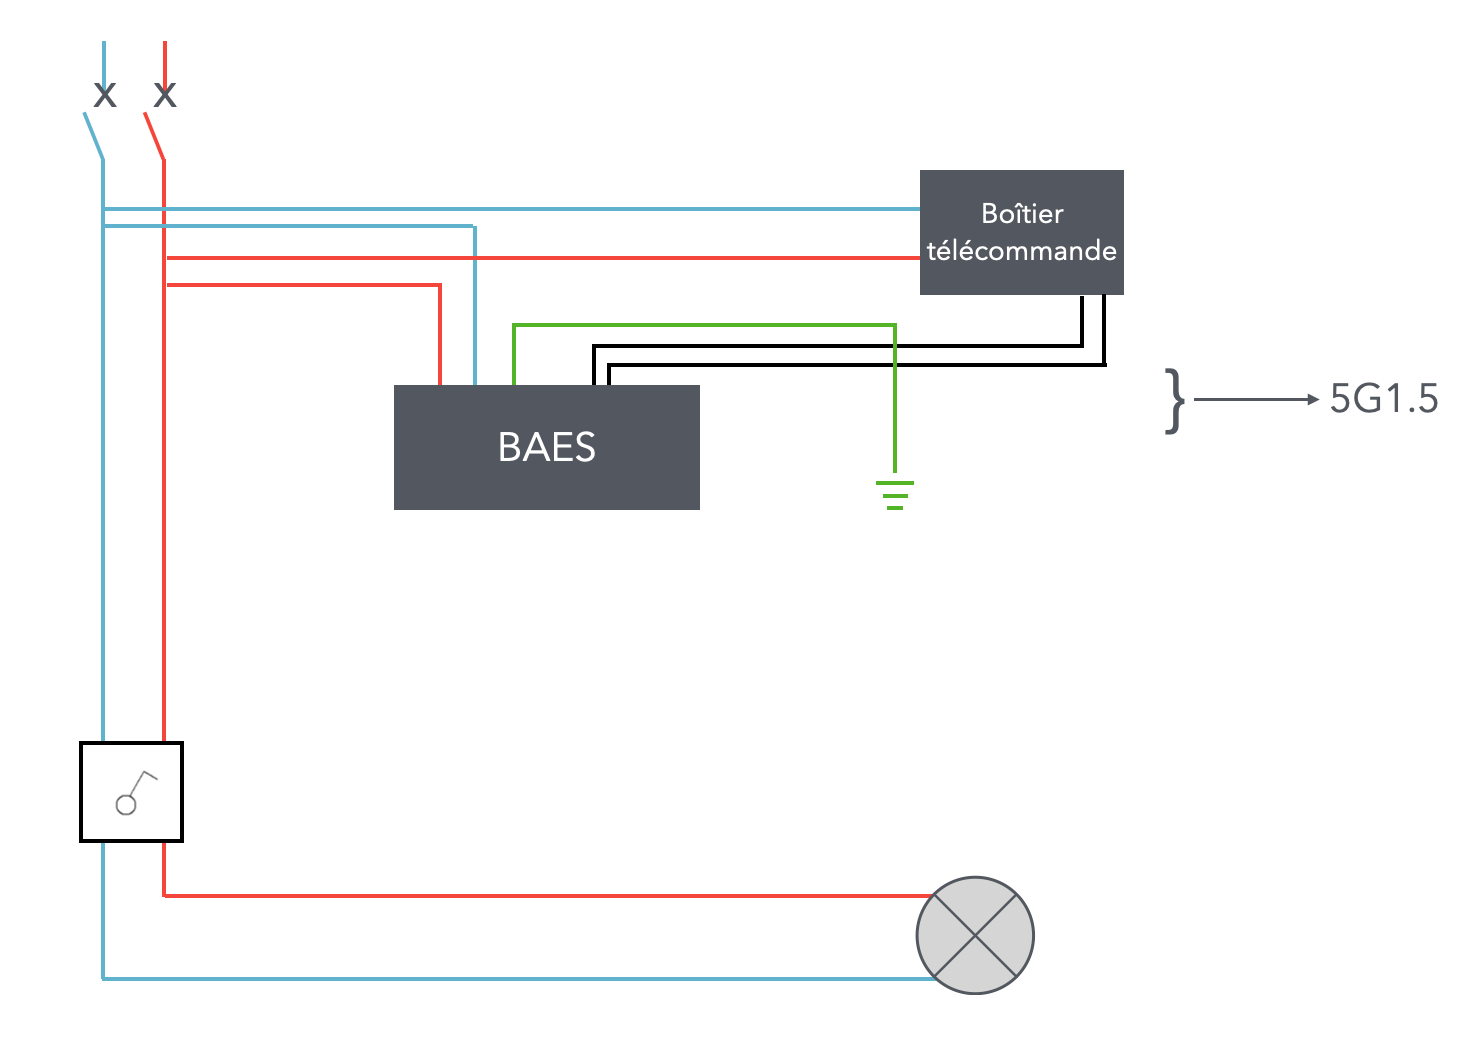
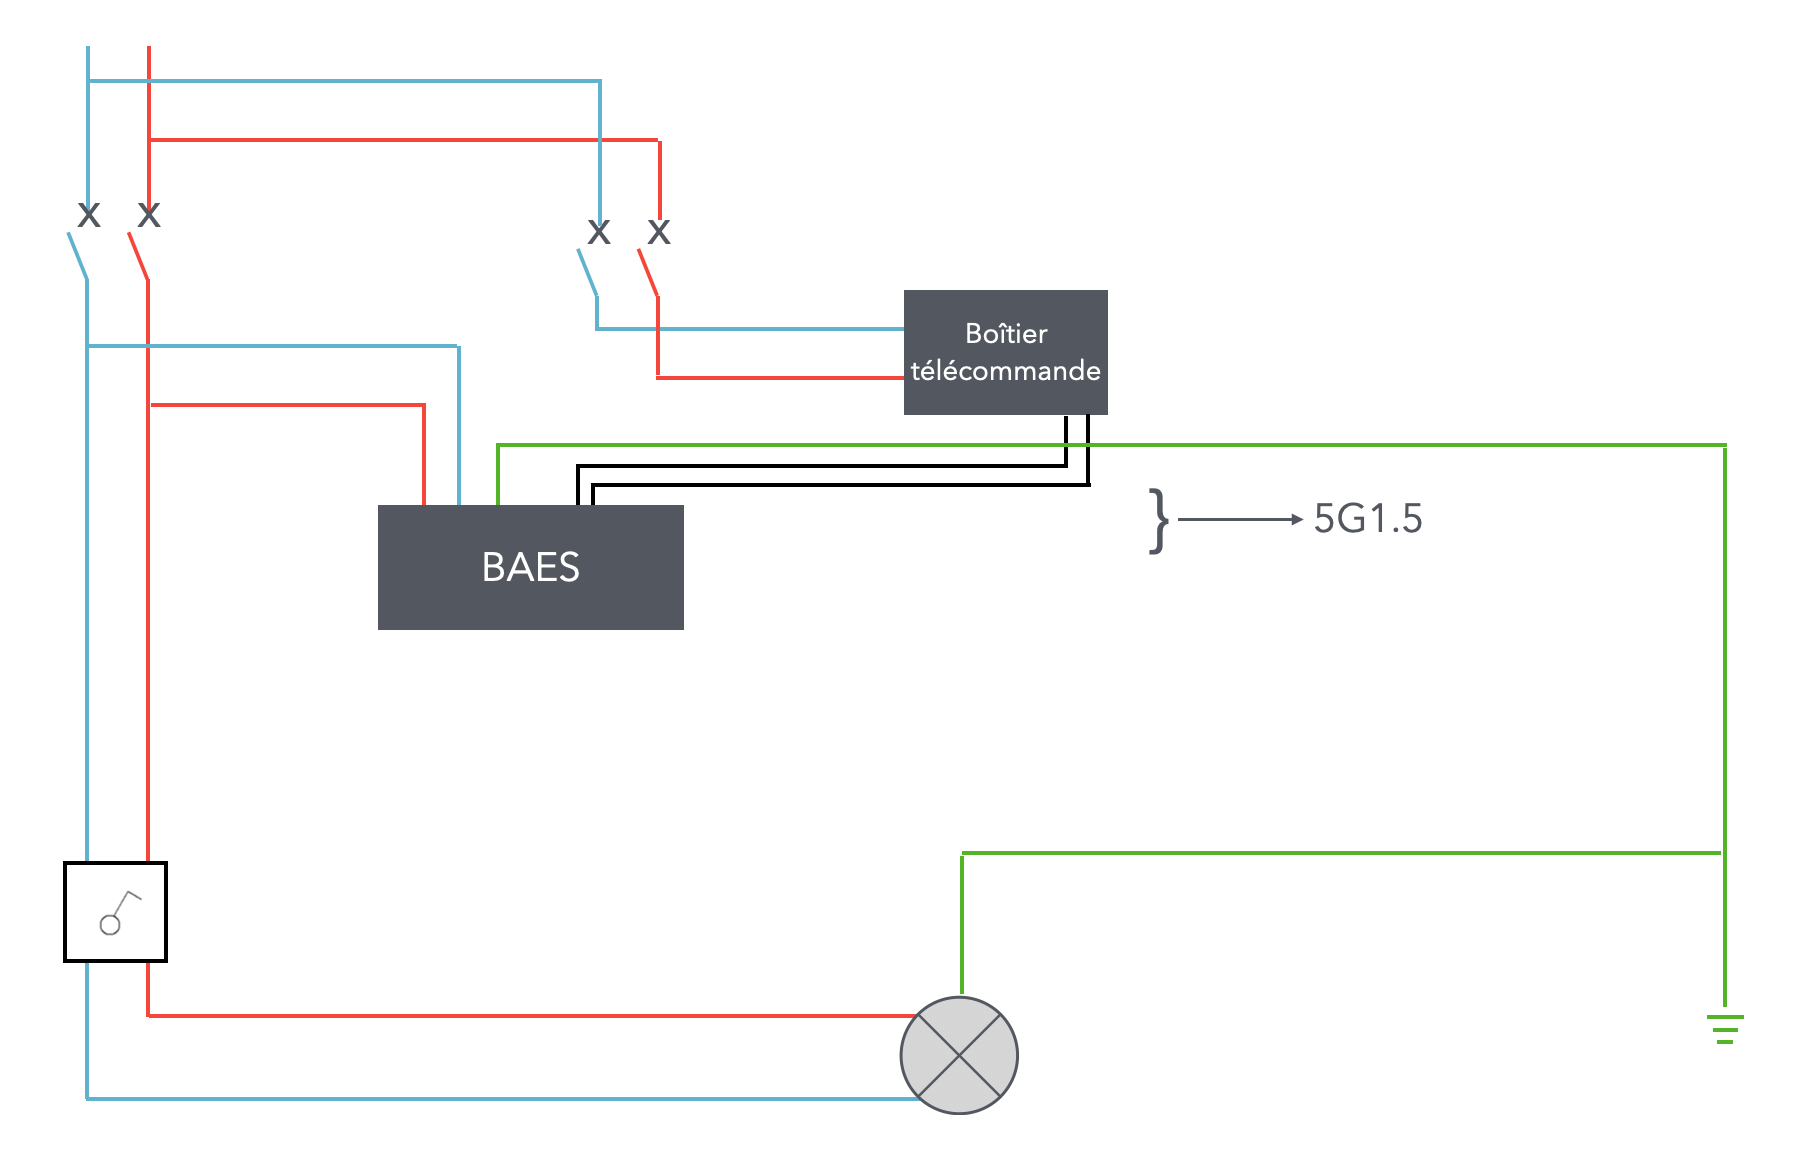
QCM 1.59

diff --git a/2eme_partie/QCMs/1_59_QCM_corrige.md b/2eme_partie/QCMs/1_59_QCM_corrige.md
@@ -6,7 +6,7 @@
 
 [Le corrigé de ce QCM](./1.59 BAES corrigé.pdf)
 
-Nom et Prénom	: 	Date : 
+Nom et Prénom	: **GUY MELANÇON**	Date : **9 JANVIER 2025**
 
 
 
@@ -20,13 +20,13 @@ Nom et Prénom	: 	Date :
 
    D. 6 hr
 
-   E. 8 hr
+   **E. 8 hr**
 
 
 
 2. Un BAES doit s’éclairer pendant combien de temps en cas de coupure?
 
-   A. 1 hr
+   **A. 1 hr**
 
    B. 2 hr
 
@@ -42,7 +42,7 @@ Nom et Prénom	: 	Date :
 
    A. Bloc automatique évacuation sécurité
 
-   B. Bloc autonome d’éclairage de sécurité
+   **B. Bloc autonome d’éclairage de sécurité**
 
    C. Batterie automatique d’éclairage de sécurité
 
@@ -57,7 +57,7 @@ Nom et Prénom	: 	Date :
 
    B. 35 cm
 
-   C. 50 cm
+   **C. 50 cm**
 
    D. 70 cm
 
@@ -67,7 +67,7 @@ Nom et Prénom	: 	Date :
 
 5. Il faut installer les BAES dans un couloir tous les changements de direction:
 
-   A. 15 m ou changement de direction
+   **A. 15 m ou changement de direction**
 
    B. 20 m ou changement de direction
 
@@ -83,7 +83,7 @@ Nom et Prénom	: 	Date :
 
    B. Tester les blocs
 
-   C. Empêcher les blocs de décharger pendant des travaux
+   **C. Empêcher les blocs de décharger pendant des travaux**
 
    D. Tester ou charger les blocs
 
@@ -95,7 +95,7 @@ Nom et Prénom	: 	Date :
 
    A. Oui
 
-   B. Non
+   **B. Non**
 
    C. Peu importe
 
@@ -112,7 +112,7 @@ Nom et Prénom	: 	Date :
 
    C. 4 hr
 
-   D. 6 hr
+   **D. 6 hr**
 
    E. 8 hr
 
@@ -122,7 +122,7 @@ Nom et Prénom	: 	Date :
 
    A. Est vert fixe
 
-   B. Est vert avec clignotement
+   **B. Est vert avec clignotement**
 
    C. Est orange
 
@@ -133,4 +133,4 @@ Nom et Prénom	: 	Date :
 
 10. Complétez le schéma avec SA, lampe, et éclairage de sécurité
 
-<img src='./BAES_schema.png' width="75%">
+<img src='../images/Schema_connexion_BAES.png' width="75%">
